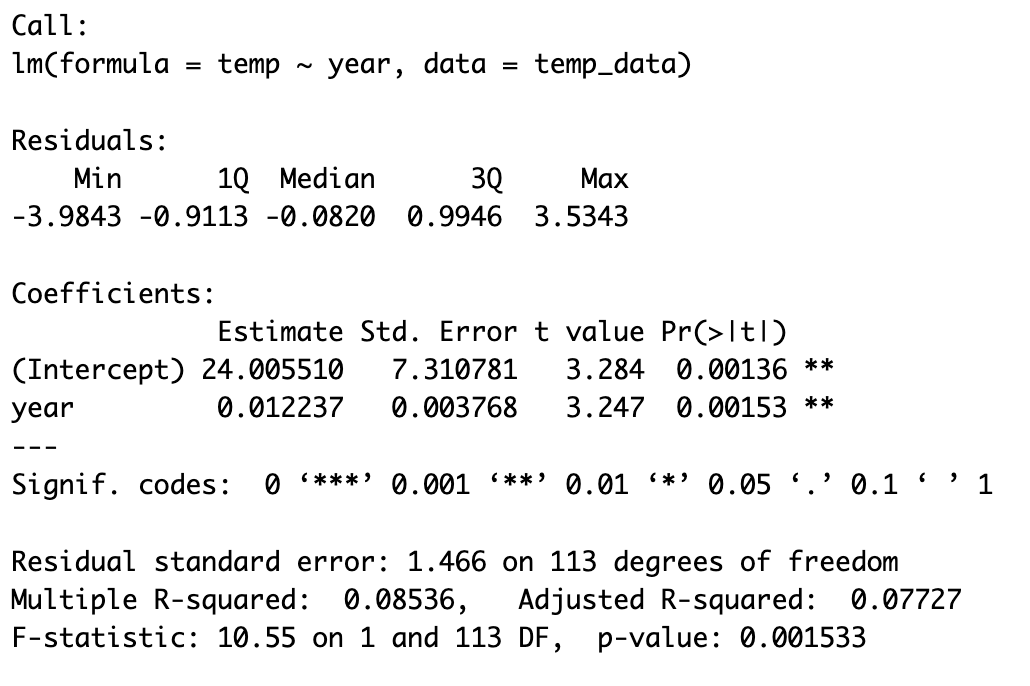
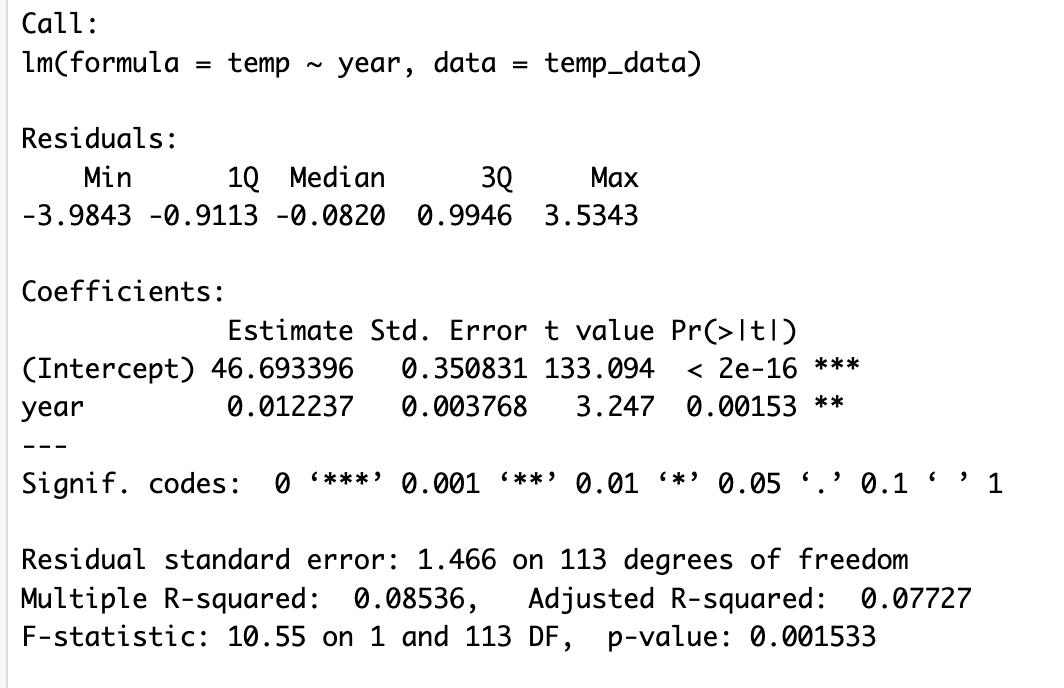
sec 2.1 work

diff --git a/index.md b/index.md
@@ -208,6 +208,7 @@ summary(aatemp_lm)
 ```
 Which gives the following output:
 
+![Summary Output](https://github.com/EdDataScienceEES/tutorial-shaistilman/blob/master/figures/simple_linear_model_summary.png)
 
 From the output:
 - $\alpha = 46.693396$, which means that at year 0 (1854), the mean temperature was $46.693396^\circ\mathrm{F}$.
@@ -271,6 +272,7 @@ Lets look at the summary of our linear model to find our unknown paramaters: $\a
 #finding alpha and our beta's
 summary(uswages_lm)
 ```
+![Summary Output]()
 
 Which gives the following output
 ## Linear Models with Categorical Variables
